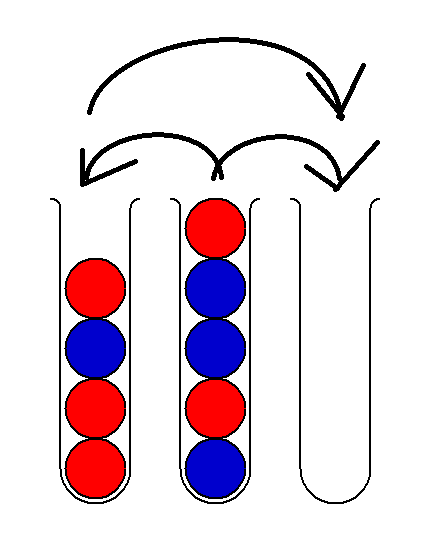
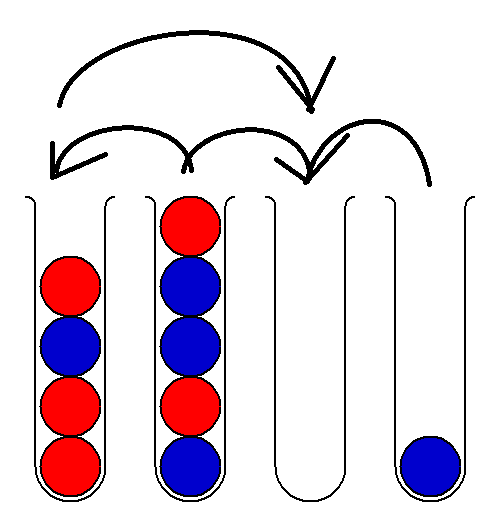
update for readme

diff --git a/README.md b/README.md
@@ -2,8 +2,7 @@
 This is a python program that allows you to find solutions for a game in which you sort some colored balls.
 
 ## The game
-The game this is based on has a few rules. You start with some flasks that contain balls, the balls are all stacked ontop of each other making it a single list from top to bottom. Only the highest ball in these flasks are acessiable and can be attempted to be moved to a different flask. The balls can only be moved to a empty flask or one with the same color below the empty spot.
-
-<img src="./Pictures/Valid moves.png" width="50%" align="right">
+<img src="./Pictures/Valid moves.png" width="25%" align="right">
+The game this is based on has a few rules. You start with some flasks that contain balls, the balls are all stacked ontop of each other making it a single list from top to bottom. Only the highest ball in these flasks are acessiable and can be attempted to be moved to a different flask. The balls can only be moved to a empty flask or one with the same color below the empty spot. In the picture to the right the only four valid moves in that senario are shown.
 
 Lastly, the amount of balls in the flasks can vary from level to level. I have limited this to a minimum of 1 ball to a max of 20. The same is true for the flasks. The game gives you 2 emtpy flasks each level. All the other flasks given in the level are always completely full.
